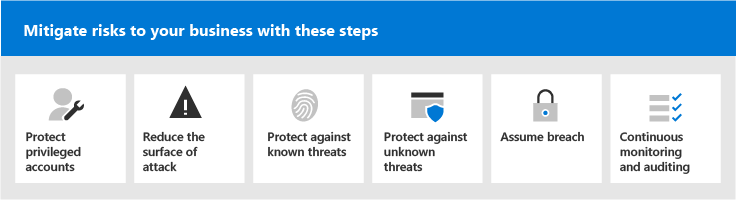
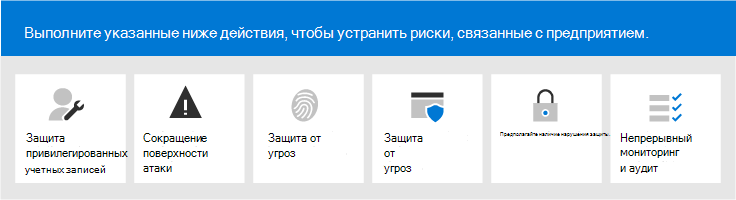
commit translated contents

diff --git a/microsoft-365/compliance/data-loss-prevention-policies.md b/microsoft-365/compliance/data-loss-prevention-policies.md
@@ -22,12 +22,12 @@ search.appverid:
 ms.custom:
 - seo-marvel-apr2020
 description: Получите сведения о том, как выявлять, отслеживать и автоматически защищать конфиденциальную информацию организации в Office 365.
-ms.openlocfilehash: d1b82f1e5581e1d24284a549f3c9572e0f8343a3
-ms.sourcegitcommit: 89f56c3e0b619a4700a75a21927d9ffc90658632
+ms.openlocfilehash: 0817d48879fccbefcda22d677c85a250dc017dd0
+ms.sourcegitcommit: da34ac08c7d029c2c42d4428d0bb03fd57c448be
 ms.translationtype: HT
 ms.contentlocale: ru-RU
-ms.lasthandoff: 11/10/2020
-ms.locfileid: "48984943"
+ms.lasthandoff: 11/12/2020
+ms.locfileid: "48999503"
 ---
 # <a name="overview-of-data-loss-prevention"></a>Обзор функции защиты от потери данных
 <!-- this topic needs to be split into smaller, more coherent ones. It is confusing as it is. -->
@@ -35,9 +35,9 @@ ms.locfileid: "48984943"
 > [!NOTE]
 > Функции защиты от потери данных были недавно добавлены в сообщения чата и каналов Microsoft Teams для пользователей с лицензиями на продукт Office 365 Advanced Compliance, который доступен в качестве отдельной функции и включен в планы Office 365 E5 и "Соответствие требованиям Microsoft 365 E5". Дополнительные сведения о требованиях к лицензированию см. в статье [Рекомендации по лицензированию служб на уровне клиента Microsoft 365](https://docs.microsoft.com/office365/servicedescriptions/microsoft-365-service-descriptions/microsoft-365-tenantlevel-services-licensing-guidance).
 
-Чтобы соответствовать бизнес-стандартам и требованиям отраслевых нормативных актов, организациям необходимо защищать конфиденциальную информацию и не допускать ее раскрытия по неосторожности. Конфиденциальная информация может включать финансовые данные или личные сведения, например номера кредитных карт, номера социального страхования (SSN) или данные медицинских карт. Политика защиты от потери данных в Центре безопасности и соответствия требованиям Office 365 позволяет определять, отслеживать и автоматически защищать конфиденциальную информацию в Office 365.
+Чтобы соответствовать бизнес-стандартам и отраслевым нормам, организации должны защищать конфиденциальные данные и предотвращать их случайное раскрытие. Конфиденциальная информация может включать финансовые данные или личные сведения, например номера кредитных карт, номера социального страхования или данные медицинских карт. Политика защиты от потери данных в Центре безопасности &amp;и соответствия требованиям Office 365 позволяет выявлять, отслеживать и автоматически защищать конфиденциальную информацию в Office 365.
   
-Политика защиты от потери данных предоставляет указанные ниже возможности.
+Политика защиты от потери данных предоставляет следующие возможности.
   
 - **Выявление конфиденциальной информации во многих расположениях, например в Exchange Online, SharePoint Online, OneDrive для бизнеса и Microsoft Teams.**
     
@@ -47,17 +47,17 @@ ms.locfileid: "48984943"
     
     Например, вы можете находить документы с данными медицинских карт, доступ к которым был предоставлен пользователям за пределами вашей организации, а потом автоматически блокировать доступ к ним или запрещать отправку соответствующих электронных писем.
     
-- **Отслеживание и защита конфиденциальной информации в полных версиях Excel, PowerPoint и Word.**
+- **Отслеживание и защита конфиденциальной информации в классических версиях Excel, PowerPoint и Word.**
     
-    В этих программах Office для компьютера есть точно такие же возможности по выявлению конфиденциальной информации и применению политик защиты от потери данных, как и в Exchange Online, SharePoint Online и OneDrive для бизнеса. Когда пользователи обмениваются контентом в этих программах Office, функции защиты от потери данных выполняют постоянный мониторинг.
+    Эти классические приложения Office включают такие же возможности для определения конфиденциальных данных и применения политик защиты от потери данных, что и Exchange Online, SharePoint Online и OneDrive для бизнеса. Когда пользователи обмениваются контентом в этих приложениях Office, функции защиты от потери данных выполняют непрерывный мониторинг.
     
 - **Информирование пользователей о способах обеспечения соответствия требованиям без прерывания их рабочих процессов.**
     
-    Вы можете рассказать пользователям о политиках защиты от потери данных и о том, что соответствие требованиям не будет мешать их работе. Например, если пользователь пытается предоставить доступ к документу, содержащему конфиденциальную информацию, политика защиты от потери данных может отправить ему уведомление по электронной почте либо в контексте библиотеки документов отобразить подсказку политики, которая позволяет переопределить политику при наличии веской деловой причины. Такие же подсказки политики отображаются и в Outlook в Интернете, в Outlook, Excel, PowerPoint и Word.
+    Вы можете рассказать пользователям о политиках защиты от потери данных и о том, что соответствие требованиям не будет мешать их работе. Например, если пользователь пытается предоставить доступ к документу, содержащему конфиденциальную информацию, политика защиты от потери данных может отправить ему уведомление по электронной почте или в контексте библиотеки документов отобразить подсказку политики, которая позволяет переопределить политику при наличии веской деловой причины. Такие же подсказки политики отображаются и в Outlook в Интернете, Outlook, Excel, PowerPoint и Word.
     
-- **Просмотр отчетов защиты от потери данных со сведениями о контенте, который соответствует условиям политик защиты от потери данных вашей организации.**
+- **Просмотр оповещений и отчетов защиты от потери данных со сведениями о контенте, который соответствует политикам защиты от потери данных вашей организации.**
     
-    Чтобы оценить степень соответствия организации политике защиты от потери данных, можно изучить количество нарушений каждой политики и каждого правила за определенный период. Если политика защиты от потери данных позволяет пользователю переопределять подсказки политики и помечать их как ложные срабатывания, вы также можете просматривать связанные с этим сообщения пользователей.
+    Чтобы просмотреть оповещения и метаданные, связанные с политиками защиты от потери данных, можно использовать [Панель мониторинга для управления оповещениями защиты от потери данных](dlp-configure-view-alerts-policies.md). Можно также просмотреть отчеты о соответствии политике, чтобы оценить степень соответствия вашей организации политике защиты от потери данных. Если политика защиты от потери данных позволяет пользователю переопределять подсказки политики и помечать их как ложные срабатывания, вы также можете просматривать связанные с этим сообщения пользователей.
     
 На странице управления защитой от потери данных в Центре соответствия требованиям Microsoft 365 можно создавать политики и управлять ими.
   
@@ -194,15 +194,17 @@ ms.locfileid: "48984943"
   
 ![Подсказка политики для документа в учетной записи OneDrive](../media/f9834d35-94f0-4511-8555-0fe69855ce6d.png)
 
- Дополнительные сведения об уведомлениях для пользователей и подсказках политик защиты от потери данных см. в статье [Использование уведомлений и подсказок политики](use-notifications-and-policy-tips.md).
+ Дополнительные сведения об уведомлениях пользователей и подсказках политик защиты от потери данных см. в статье [Использование уведомлений и подсказок политики](use-notifications-and-policy-tips.md).
 
-#### <a name="incident-reports"></a>Отчеты об инцидентах
+#### <a name="alerts-and-incident-reports"></a>Отчеты об оповещениях и инцидентах
 
-В случае совпадения с правилом вы можете отправить отчет с подробными сведениями об инциденте лицу, ответственному за соответствие требованиям (или любому другому пользователю). Отчет содержит информацию об объекте, попавшем под действие правила, фактическом элементе контента, а также имени пользователя, которым последним вносил в него изменения. Для электронных писем в отчет включается исходное сообщение, для которого сработала политика защиты от потери данных.
+В случае совпадения с правилом вы можете отправить сообщение по электронной почте с подробным описанием оповещения лицу, ответственному за обеспечение соответствия требованиям (или любому другому пользователю). Это сообщение должно содержать ссылку на [Панель мониторинга для управления оповещениями защиты от потери данных](dlp-configure-view-alerts-policies.md), по которой лицо, ответственное за обеспечение соответствия требованиям, сможет получить доступ к сведениям об оповещении и событиях. Панель мониторинга содержит сведения о событии, которое активировало оповещение, а также сведения о соответствии политике защиты от потери данных и обнаруженном конфиденциальном содержимом.
+
+Кроме того, вы также можете отправить отчет об инциденте с подробным описанием события. Отчет должен содержать сведения об элементе, попавшем под действие правила, фактическом содержимом, а также имя пользователя, который последним изменил это содержимое. Для электронных писем в отчет включается исходное сообщение, для которого сработала политика защиты от потери данных.
   
-![Страница для настройки отчетов об инцидентах](../media/31c6da0e-981c-415e-91bf-d94ca391a893.png)
+![Страница для настройки отчетов об инцидентах](../media/Alerts-and-incident-report.png)
 
-DLP сканирует электронную почту иначе, чем элементы в SharePoint Online или OneDrive для бизнеса. В SharePoint Online и OneDrive для бизнеса DLP сканирует как существующие, так и новые элементы и генерирует отчет об инцидентах при обнаружении совпадения. В Exchange Online защита от потери данных сканирует только новые сообщения электронной почты и формирует отчет при совпадении политик. Защита от потери данных * *_не_* _ сканирует и не сопоставляет ранее существующие элементы электронной почты, которые хранятся в почтовом ящике или архиве.
+Защита от потери данных сканирует электронную почту иначе, чем элементы в SharePoint Online или OneDrive для бизнеса. В SharePoint Online и OneDrive для бизнеса защита от потери данных сканирует как существующие, так и новые элементы и формирует отчет об оповещениях и инцидентах при обнаружении совпадения. В Exchange Online защита от потери данных сканирует только новые сообщения электронной почты и формирует отчет при обнаружении совпадения политике. Защита от потери данных * *_не_* _ сканирует и не сопоставляет ранее существующие элементы электронной почты, которые хранятся в почтовом ящике или архиве.
   
 ## <a name="grouping-and-logical-operators"></a>Группировка и логические операторы
 
